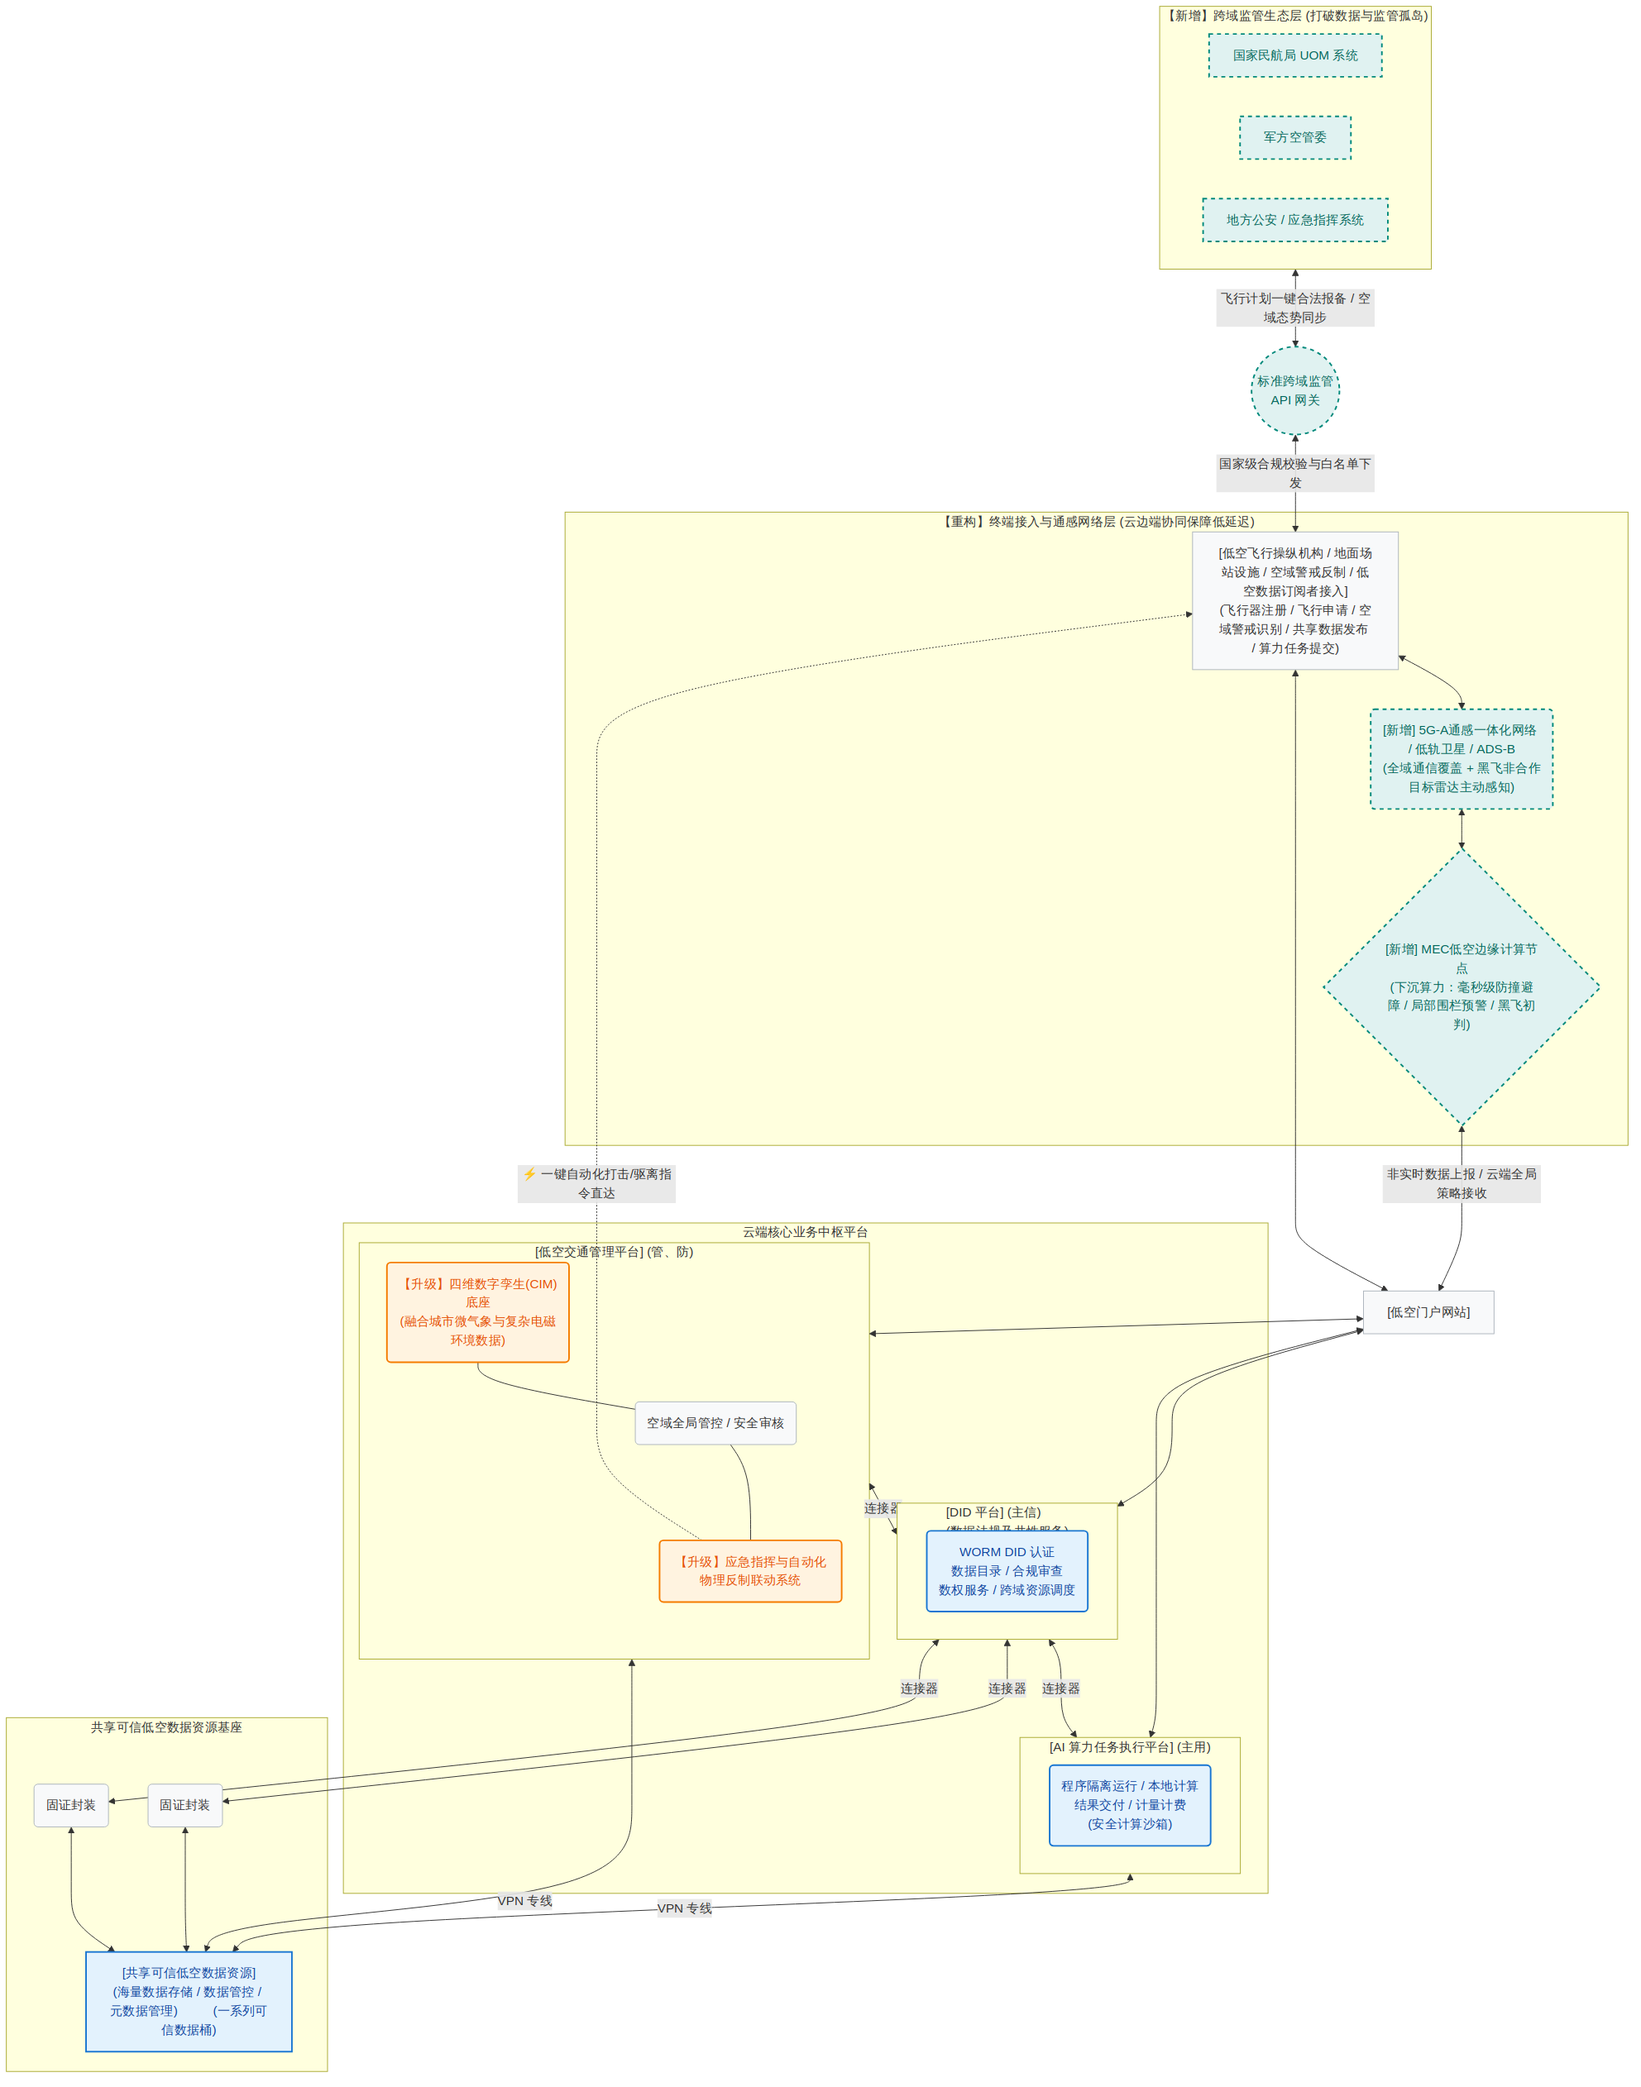
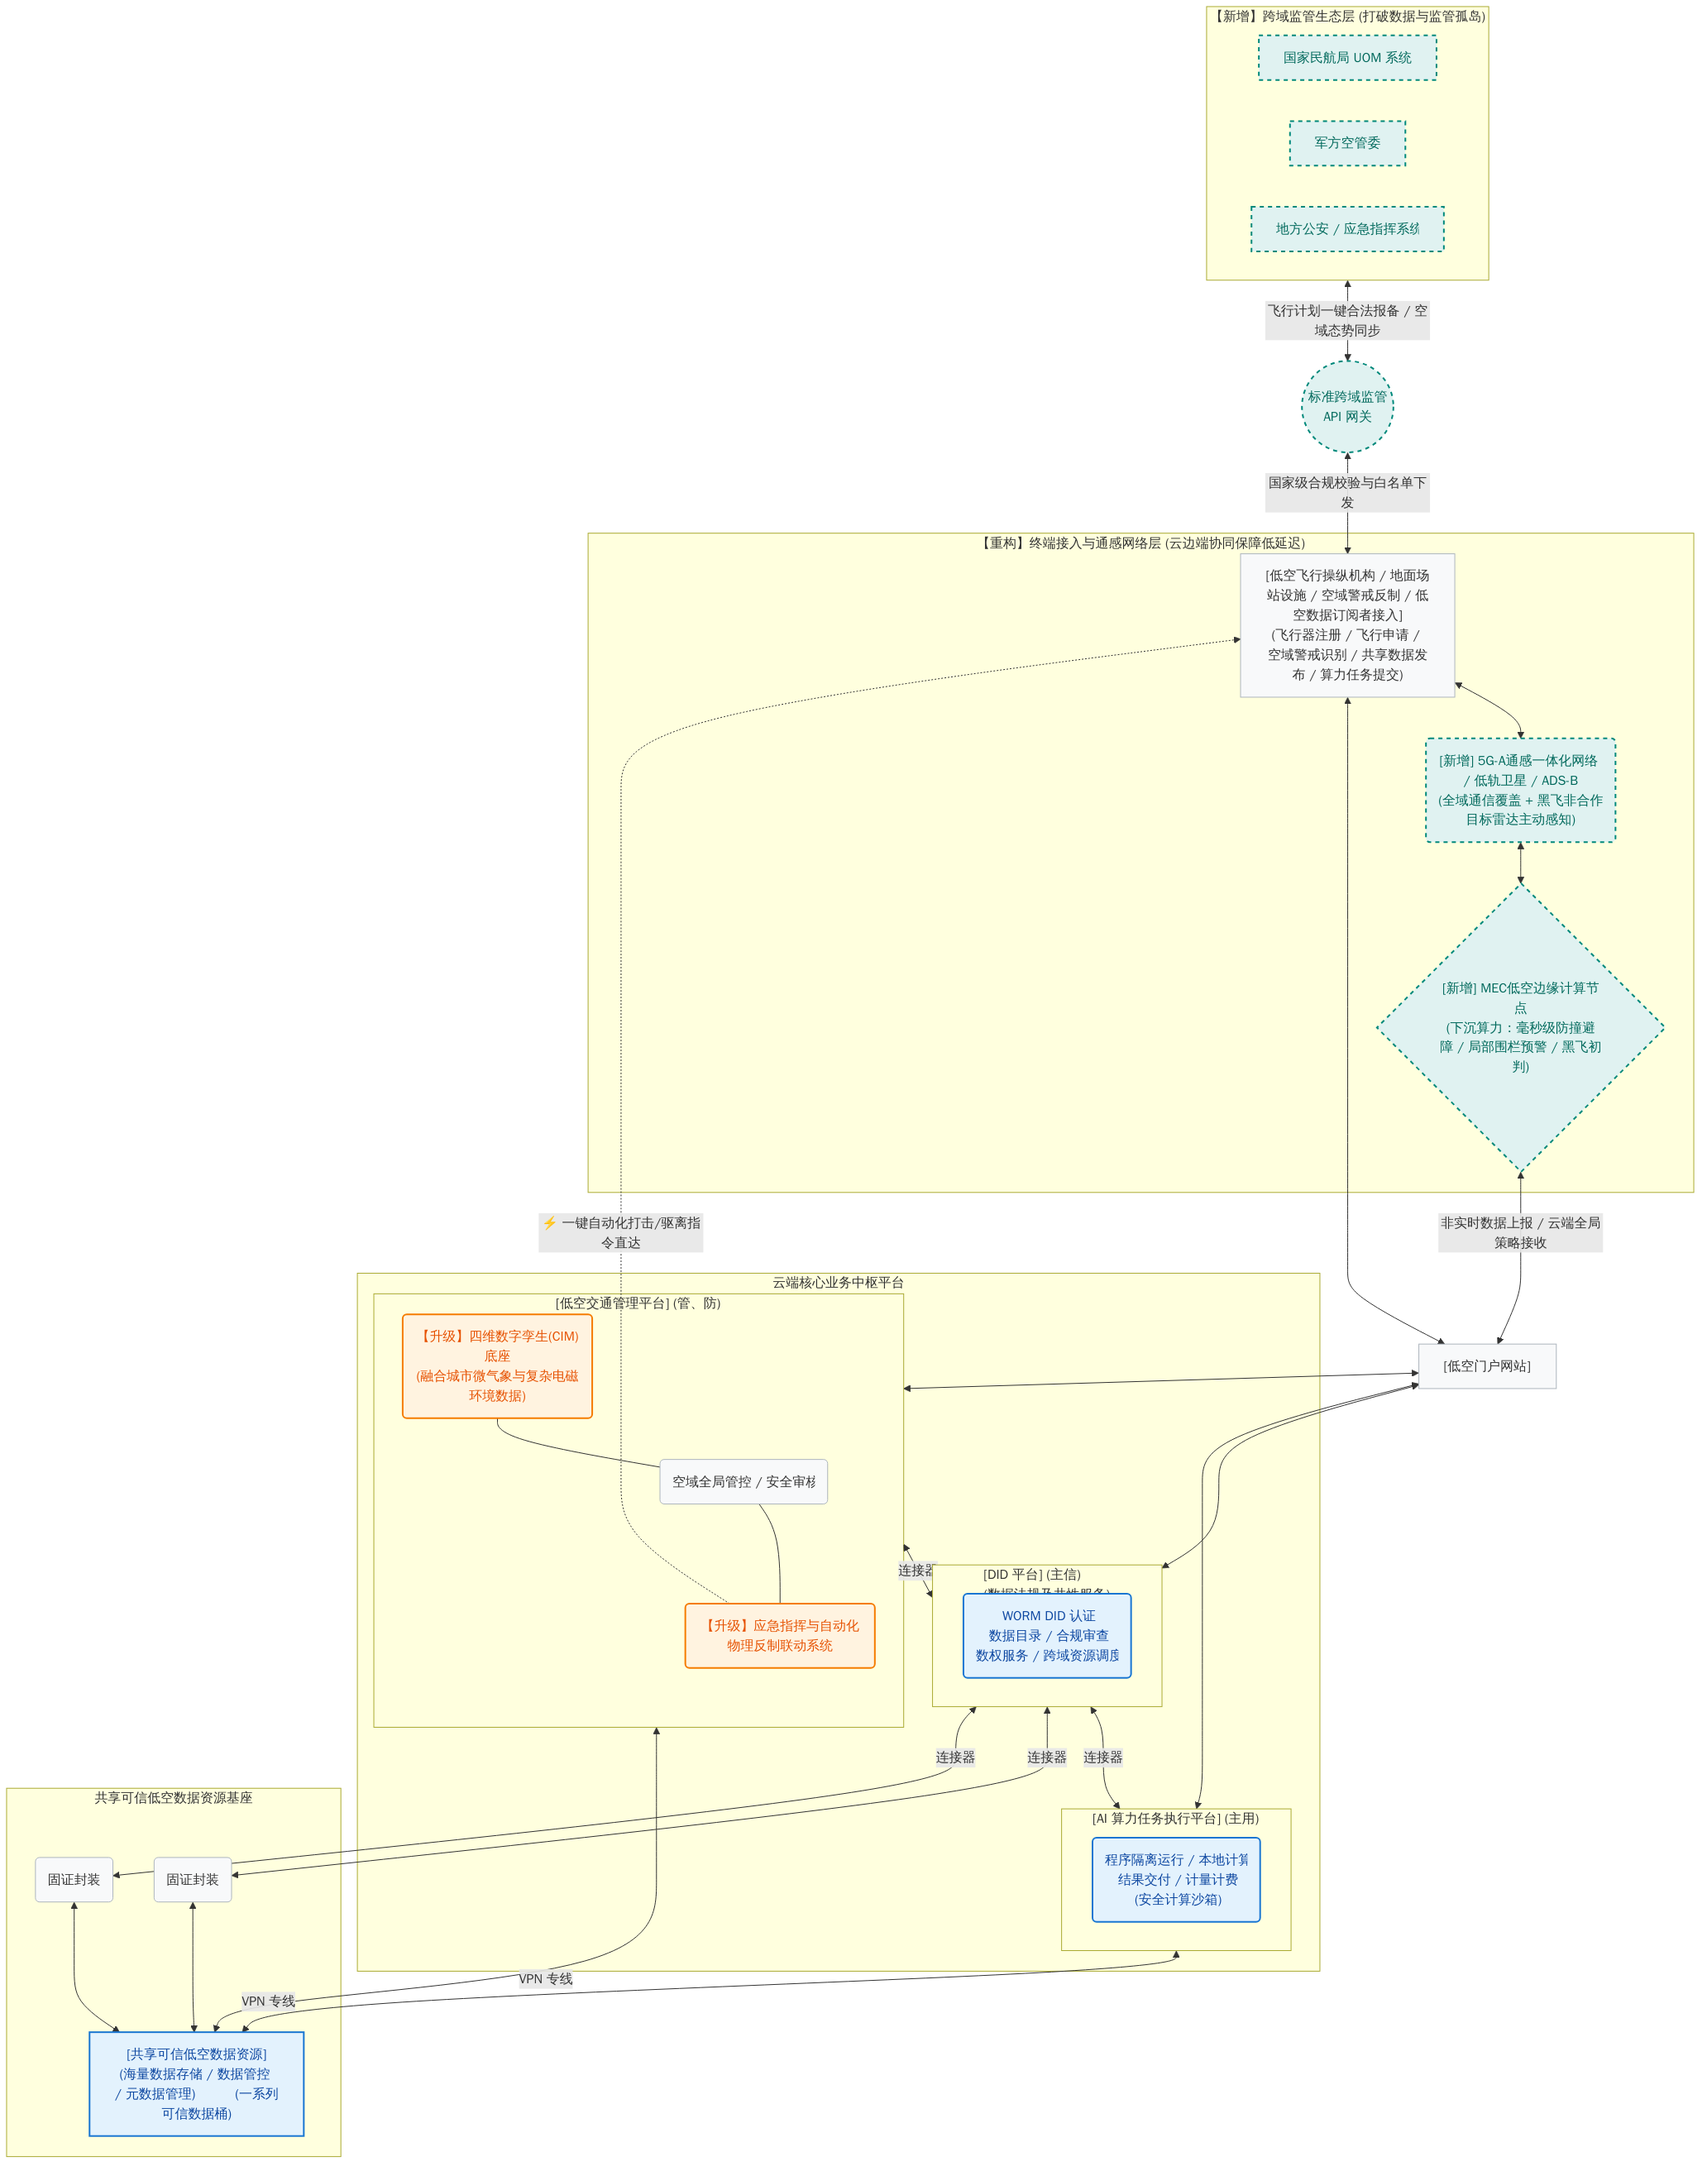
Render diagram with CJK fonts via Noto Sans CJK SC
Install fonts-noto-cjk on the host so Chromium picks up Chinese glyphs,
then add a Mermaid config (fontFamily) and CSS overrides so the rendered
PNG displays Chinese labels instead of tofu boxes. Also include the SVG
output for scalable preview.

https://claude.ai/code/session_01HJSG96wqu7kcPDxuj23XTm

diff --git a/mermaid.css b/mermaid.css
@@ -1,0 +1,3 @@
+* {
+  font-family: "WenQuanYi Zen Hei", "Noto Sans CJK SC", "Microsoft YaHei", sans-serif !important;
+}
